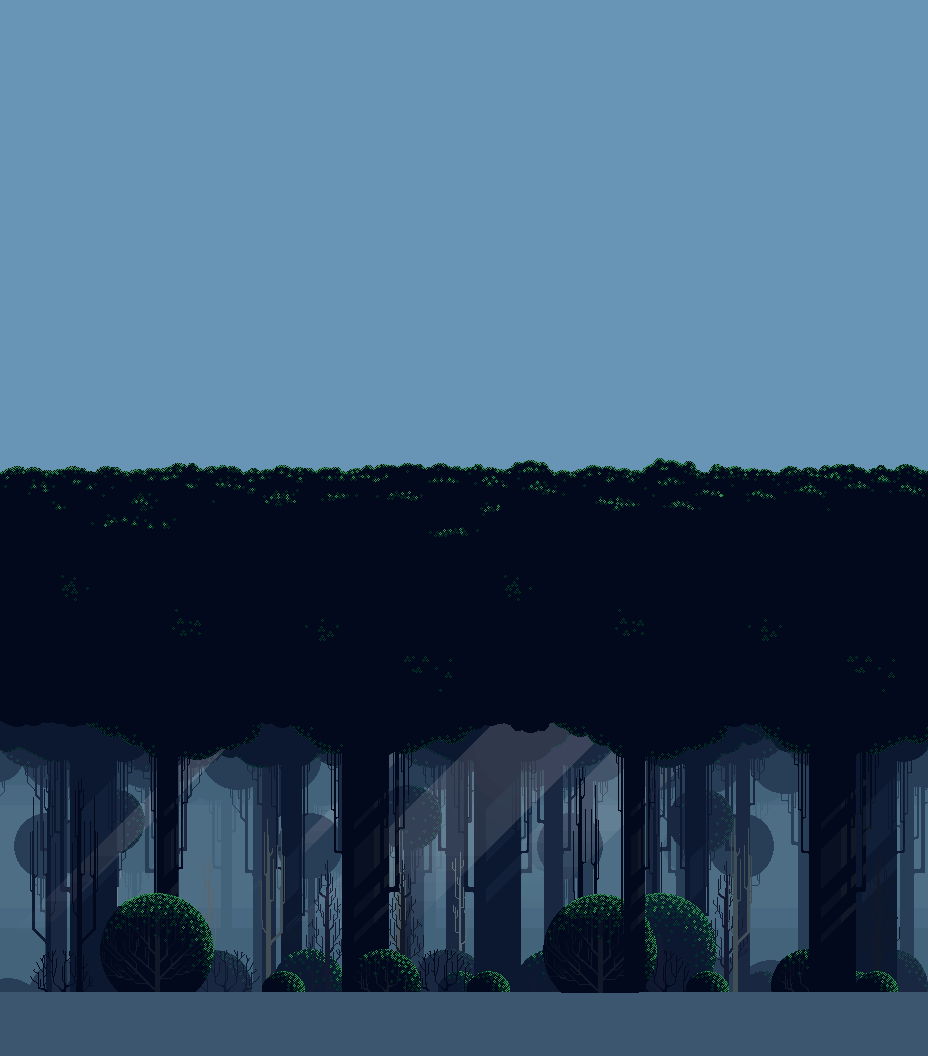
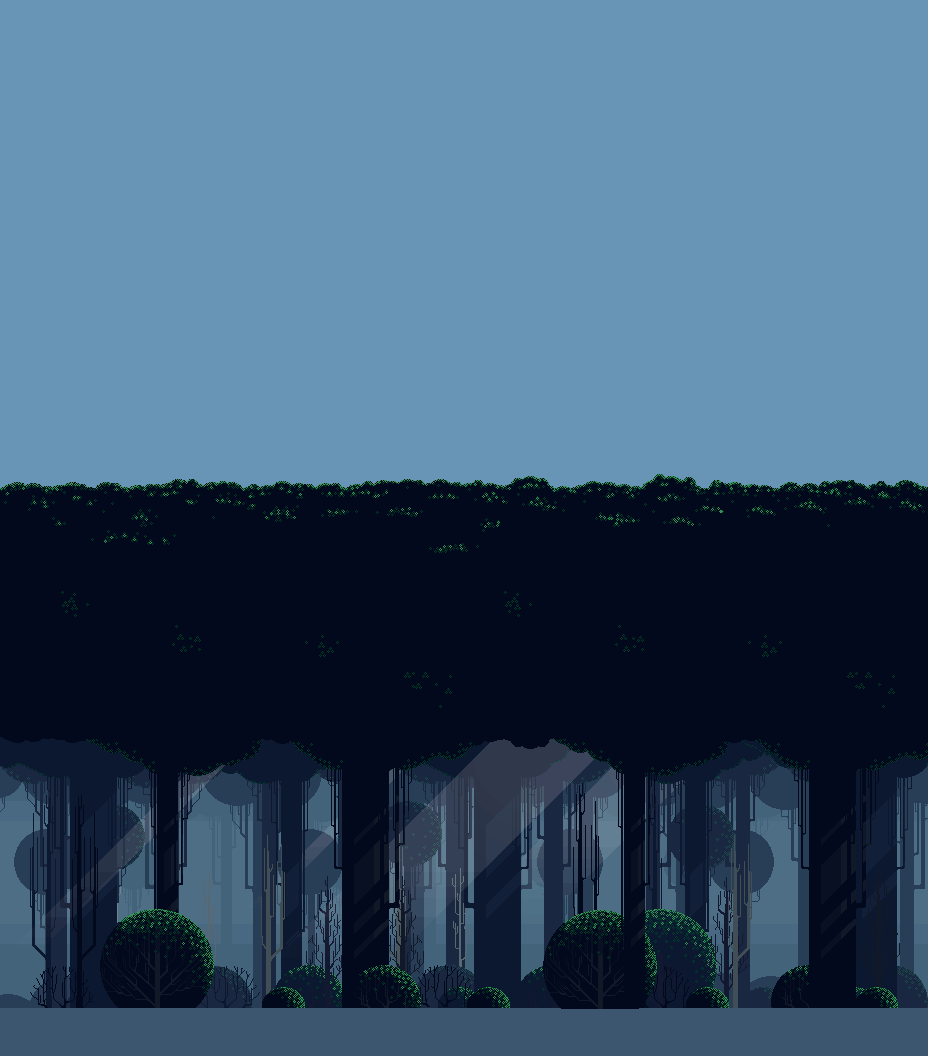
feat: add jumping

diff --git a/src/controller/engine/scenes/scene1.ts b/src/controller/engine/scenes/scene1.ts
@@ -9,14 +9,14 @@ class PlaySceneOne extends Phaser.Scene {
   }
 
   preload() {
-    this.load.json('level:1', '../../../data/levelData/level01.json');
+    // this.load.json('level:1', '../../../data/levelData/level01.json');
     this.load.image('cat', '../../../assets/spritesheets/cat-idlesprite.png');
     this.load.image('forest', '../../../assets/backgrounds/Backgroundx48.png');
     this.load.image('ground', '../../../assets/tiles/forest-tiles-allx48cut.png');
     this.load.tilemapTiledJSON('forestGround', '../../../assets/tiles/forest-temp-map.json');
   }
 
-  _loadLevel(data: IJSONData) {
+  _loadPlayer(data: IJSONData) {
     // data.platforms.forEach(this._spawnPlatform, this);
     this._spawnCharacters();
   }
@@ -41,23 +41,53 @@ class PlaySceneOne extends Phaser.Scene {
     //   -75,
     //   'forest'
     // ));
-    
+
     // this.player = new Player(this, 100, 100);
     // this.add.image(0, 0, 'forest');
-    this.add.tileSprite(465, -75, 0, 1920, 'forest');
-    this._loadLevel(this.game.cache.json.get('level:1'));
+
+    // 2nd parameter sets background exactly to left bottom
+    // this.add.image(
+    //   this.textures.get('forest').getSourceImage().width / 2,
+    //   +this.game.config.height - this.textures.get('forest').getSourceImage().height / 2,
+    //   'forest'
+    // );
+
+    const bgOffset = +this.game.config.height - this.textures.get('forest').getSourceImage().height / 2;
+    const worldSize = 4000;
+    // 2nd parameter sets background exactly to left bottom
+    this.add.tileSprite(this.textures.get('forest').getSourceImage().width / 2, bgOffset, 4000, 1056, 'forest');
+    this._loadPlayer(this.game.cache.json.get('level:1'));
 
     const map = this.make.tilemap({ key: 'forestGround' });
-    console.log(map);
-    
     const tileset = map.addTilesetImage('ts1', 'ground');
-    const platforms = map.createLayer('ts2', tileset, 0, -610);
+    const platforms = map.createLayer(
+      'ts2',
+      tileset,
+      0,
+      -(this.textures.get('forest').getSourceImage().height / 2 - bgOffset)
+    );
 
-    // Dont forget to set collision to each tile in tiled!
+    // // Dont forget to set collision to each tile in tiled!
     platforms.setCollisionByProperty({ collides: true });
     this.physics.add.collider(this.player, platforms);
-    this.cameras.main.setBounds(0, 0, 800, 450, true);
-    this.physics.world.setBounds(0, 0, 800, 450, true, true, false);
+    console.log(this.textures.get('forest').getSourceImage().width / 2);
+
+    this.cameras.main.setBounds(
+      0,
+      0,
+      worldSize / 2 + this.textures.get('forest').getSourceImage().width / 2,
+      450,
+      true
+    );
+    this.physics.world.setBounds(
+      0,
+      0,
+      worldSize / 2 + this.textures.get('forest').getSourceImage().width / 2,
+      450,
+      true,
+      true,
+      false
+    );
     this.cameras.main.startFollow(this.player, true, 0.5, 0.5);
   }
 

diff --git a/src/controller/engine/actor/player.ts b/src/controller/engine/actor/player.ts
@@ -17,9 +17,8 @@ class Player extends Actor {
     this.initAnimations();
   }
 
-  private initAnimations(): void {   
-    console.log( this.scene.anims.generateFrameNames('a-cat-idle'));
 
+  private initAnimations(): void {
     this.scene.anims.create({
       key: 'run',
       frames: this.scene.anims.generateFrameNames('a-cat', {
@@ -28,9 +27,9 @@ class Player extends Actor {
         start: 1,
         end: 5,
       }),
-      frameRate: 15,
+      frameRate: 12,
       repeat: -1,
-    });
+    }); 
     this.scene.anims.create({
       key: 'idle',
       frames: this.scene.anims.generateFrameNames('a-cat-idle', {
@@ -42,30 +41,67 @@ class Player extends Actor {
       frameRate: 5,
       repeat: -1,
     });
+    this.scene.anims.create({
+      key: 'jump',
+      frames: this.scene.anims.generateFrameNames('a-cat-jump', {
+        prefix: 'cat-jump-',
+        suffix: '.png',
+        start: 1,
+        end: 4,
+      }),
+    });
   }
 
-  update(): void {
-    this.getBody().setVelocity(0);
 
+
+  update(): void {
+    // Affects fall physics!
+    this.getBody().velocity.x = 0;
+
+    // Run left on A press
     if (this.keyA?.isDown) {
-      this.body.velocity.x = -160;
+      if (!this.keySpace?.isDown) {
+        this.anims.play('run', true);
+        this.body.velocity.x = -160;
+      }
+      this.body.velocity.x = -200;
+
       this.checkFlip();
       this.getBody().setOffset(48, 0);
-      this.anims.play('run', true);
     }
 
+    // Run right on D press
     if (this.keyD?.isDown) {
-      this.body.velocity.x = 160;
+      if (!this.keySpace?.isDown) {
+        this.anims.play('run', true);
+        this.body.velocity.x = 160;
+      }
+      this.body.velocity.x = 200;
       this.checkFlip();
       this.getBody().setOffset(15, 0);
-      this.anims.play('run', true);
     }
 
-    // if (this.keySpace?.isDown) {
-    //   this.body.velocity.y = -110;
-    // }
+    // Jump on space press
+    // Set frames based on velocity!!
+    if (this.keySpace?.isDown) {
+      console.log(this.getBody().velocity);
+      if (this.getBody().onFloor()) {
+        this.body.velocity.y = -800;
+      }
+      // this.anims.play('jump', true);
+      // if (this.keyD?.isDown) {
+        
+      //   this.body.velocity.x = 1000;
+      // }
+      // if (this.keyA?.isDown) {
+      //   this.body.velocity.x = -600;
+      // }
+      // this.anims.stop();
+      // this.body.gravity.y = -600;
+    }
 
-    if (!this.keyD?.isDown && !this.keyA?.isDown) {
+    // Idle animation
+    if (!this.keyD?.isDown && !this.keyA?.isDown && !this.keySpace?.isDown) {
       this.anims.play('idle', true);
     }
   }

diff --git a/src/controller/engine/scenes/loading.ts b/src/controller/engine/scenes/loading.ts
@@ -8,6 +8,7 @@ class LoadingScene extends Phaser.Scene {
   }
 
   create(): void {
+    // TODO MAKE UNIVERSAL LOADING SCREEN
     // this.cat = this.add.sprite(48, 48, 'cat');
     this.scene.start('PlaySceneOne');
   }
@@ -15,8 +16,14 @@ class LoadingScene extends Phaser.Scene {
   preload(): void {
     this.load.baseURL = 'assets/';
     this.load.image('cat', 'spritesheets/cat-idlesprite.png');
+
+    // Load spritesheets
     this.load.atlas('a-cat-idle', 'spritesheets/cat-idle-atlas.png', 'spritesheets/cat-idle-atlas.json');
     this.load.atlas('a-cat', 'spritesheets/cat-run-atlas.png', 'spritesheets/cat-run-atlas.json');
+    this.load.image('cat-jump-1', 'spritesheets/cat-jump-frames/cat-jump-1');
+    this.load.image('cat-jump-2', 'spritesheets/cat-jump-frames/cat-jump-2');
+    this.load.image('cat-jump-3', 'spritesheets/cat-jump-frames/cat-jump-3');
+    this.load.image('cat-jump-4', 'spritesheets/cat-jump-frames/cat-jump-4');
   }
 }
 

diff --git a/webpack.config.js b/webpack.config.js
@@ -70,10 +70,10 @@ const baseConfig = {
         //   from: './src/components/views',
         //   to: path.resolve(__dirname, './dist/components/views'),
         // },
-        {
-          from: './src/data',
-          to: path.resolve(__dirname, './dist/data'),
-        },
+        // {
+        //   from: './src/data',
+        //   to: path.resolve(__dirname, './dist/data'),
+        // },
         {
           from: './src/assets',
           to: path.resolve(__dirname, './dist/assets'),

diff --git a/src/controller/engine/actor/actor.ts b/src/controller/engine/actor/actor.ts
@@ -9,7 +9,7 @@ class Actor extends Phaser.Physics.Arcade.Sprite {
     this.scene.add.existing(this);
     this.scene.physics.add.existing(this);
     this.getBody().setCollideWorldBounds(true);
-    this.getBody().setBounceY(0.1);
+    this.getBody().setBounceY(0);
   }
 
   public getDamage(value?: number): void {

diff --git a/src/index.ts b/src/index.ts
@@ -13,9 +13,9 @@ const config: Phaser.Types.Core.GameConfig = {
   physics: {
     default: 'arcade',
     arcade: {
-      gravity: { y: 4000 },
+      gravity: { y: 1400 },
       debug: false,
-    }
+    },
   },
   render: {
     antialiasGL: false,
